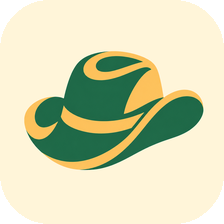
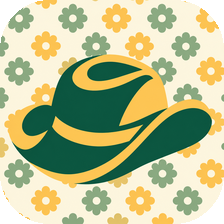
brand: adopt refined Floral 04 identity

diff --git a/brand/render.py b/brand/render.py
@@ -58,11 +58,11 @@ def main():
     outputs = [master_path, display_path, card_path]
     manifest = {
         "source_sha256": hashlib.sha256(source.read_bytes()).hexdigest(),
-        "background": "#FFF5D9",
-        "optical_shift_px": [9, -6],
+        "background": "Cream yellow with dense sage and golden scalloped flowers",
+        "composition": "Preserve accepted Floral 04 refinement",
         "refined_hat_sha256": hashlib.sha256((root / "brand/refined-hat.png").read_bytes()).hexdigest(),
-        "artwork": "Approved yellow-green cowboy hat; cream yellow #FFF5D9; optical placement",
-        "generation": "Built-in imagegen refinement; approved deterministic background and optical placement",
+        "artwork": "Approved yellow-green cowboy hat; Floral 04 repeating flower background",
+        "generation": "Built-in imagegen independent Floral 04 refinement; preserved composition",
         "outputs": {str(path.relative_to(root)): hashlib.sha256(path.read_bytes()).hexdigest() for path in outputs},
     }
     (root / "brand/manifest.json").write_text(json.dumps(manifest, indent=2) + "\n")

diff --git a/docs/PUBLIC_PRESENTATION_GUIDE.md b/docs/PUBLIC_PRESENTATION_GUIDE.md
@@ -2,15 +2,17 @@
 
 ## Product identity
 
-Owner decision (2026-10-01, final background selection): Corral's unified brand mark is the existing refined yellow-green cowboy hat on cream yellow `#FFF5D9`, selected as `Corral BG 01` in the installed background comparison. Preserve the refined hat silhouette, internal boundaries, color pixels and proportions. Use the accepted preview's optical placement (approximately 80% subject width; +9px horizontal and -6px vertical compensation on the 1024px canvas). This supersedes the earlier white-background requirement without changing the approved hat palette. Synchronize every active brand surface, including both READMEs and the iOS app icon. The former arrow, horse and blue-background unicorn identities remain retired.
+Owner decision (2026-10-01, supersedes the plain cream-yellow background): use the independently refined Floral 04 identity as Corral's unified brand mark. It combines the approved forest-green and warm-yellow cowboy hat with a cream-yellow background covered by dense small scalloped flowers in pale sage and golden yellow. Preserve the accepted refinement's full composition, hat geometry, palette and flower scale; do not reuse the old solid-background optical shift. Synchronize the production master, both README languages, social preview, relay presentation and iOS app icon. The former arrow, horse and blue-background unicorn identities remain retired.
 
 The canonical production master is `brand/AppIcon-1024.png`. The iOS catalog at `../../ios/Corral/Assets.xcassets/AppIcon.appiconset/AppIcon.png` consumes the same master. README presentation uses `docs/screenshots/corral-icon.png`, a compact rounded display derivative. Keep the application master square and opaque; do not embed the 1024 master in an SVG for GitHub. Retired arrow, horse and unicorn artwork must not remain active brand alternatives. Assistant-provider logos retain their own official identities.
 
-All presentation derivatives come from that master. `brand/render.py` deterministically prepares the 1024px app asset, rounded README display image and social-preview card. Relay documentation uses the same rounded image. Keep the accepted cream-yellow composition as `brand/source.png`, the original independent refinement as `brand/refined-hat.png`, and its refinement prompt in `brand/`; do not rely on machine-local generation paths. Use the existing sanitized terminal capture in the social card without replacing the live product demonstration in the README.
+All presentation derivatives come from that master. `brand/render.py` deterministically prepares the 1024px app asset, rounded README display image and social-preview card. Relay documentation uses the same rounded image. Keep the accepted floral refinement as `brand/source.png`, the original independent hat refinement as `brand/refined-hat.png`, and the current floral refinement prompt in `brand/`; do not rely on machine-local generation paths. Use the existing sanitized terminal capture in the social card without replacing the live product demonstration in the README.
 
-Cream-yellow asset verification (2026-10-01): 48px and 24px contrast checks passed (6.01:1 and 4.63:1 luminance spans). The iOS master is byte-identical to the canonical CLI master; CLI and relay README display images are byte-identical. The master preserves the accepted installed `Corral BG 01` composition and pixels. Signed Release iOS 1.0.82 (92) was installed and version-readback verified on iPhone Max, and uploaded to AppShelf. The cream-yellow icon was captured and inspected on the actual iPhone Home Screen. Both rendered GitHub README languages were visually verified. Physical-device delivery and Home Screen appearance are separate acceptance layers, both completed for this revision.
+Previous plain cream-yellow asset verification (2026-10-01; superseded by Floral 04): 48px and 24px contrast checks passed (6.01:1 and 4.63:1 luminance spans). The iOS master is byte-identical to the canonical CLI master; CLI and relay README display images are byte-identical. The master preserves the accepted installed `Corral BG 01` composition and pixels. Signed Release iOS 1.0.82 (92) was installed and version-readback verified on iPhone Max, and uploaded to AppShelf. The cream-yellow icon was captured and inspected on the actual iPhone Home Screen. Both rendered GitHub README languages were visually verified. Physical-device delivery and Home Screen appearance are separate acceptance layers, both completed for this revision.
 
 The earlier white-background release was installed as iOS 1.0.79 (89). The social card file is published through the repository; the GitHub custom social-preview setting was not updated because the browser was not authenticated.
+
+Floral 04 production asset verification (2026-10-01): the 1024px master is square and opaque. The 48px and 24px contrast checks passed with luminance spans of 8.08:1 and 7.81:1. The iOS icon is byte-identical to the canonical master; the relay README image is byte-identical to the CLI README image. Device installation and Home Screen appearance remain separate checks.
 
 ## README contract
 

diff --git a/TASKBOARD.md b/TASKBOARD.md
@@ -31,3 +31,4 @@
 | CI cloud two-minute speed (ongoing phase) | 验证中 | .github/workflows/test.yml, docs/MAINTAINER_GUIDE.md CI section (C scope only) | 2026-09-30 20:06 | 2026-09-30 22:46 | Docs reconciled to current evidence, awaiting fresh cloud-241 green to close: local COMPLETE 93.72s outer (2063 exact-once, jobs6, stamp written); jobs1 compat green (2060 tests, 294.05s); cloud v240 still >120 on 5/7 (Test 99–151s). Row stays until actual default-cloud all-7 ≤120 with verified shipping — not deleted, no completion claimed. |
 
 | 默认关闭命令拦截并还原双机 shim | 发布中 | bootstrap/shim/install/dev-install/tests/MAINTAINER_GUIDE、双机 shell | 17:31 | 2026-09-30 17:37 | 准备发 v0.24.238 |
+
